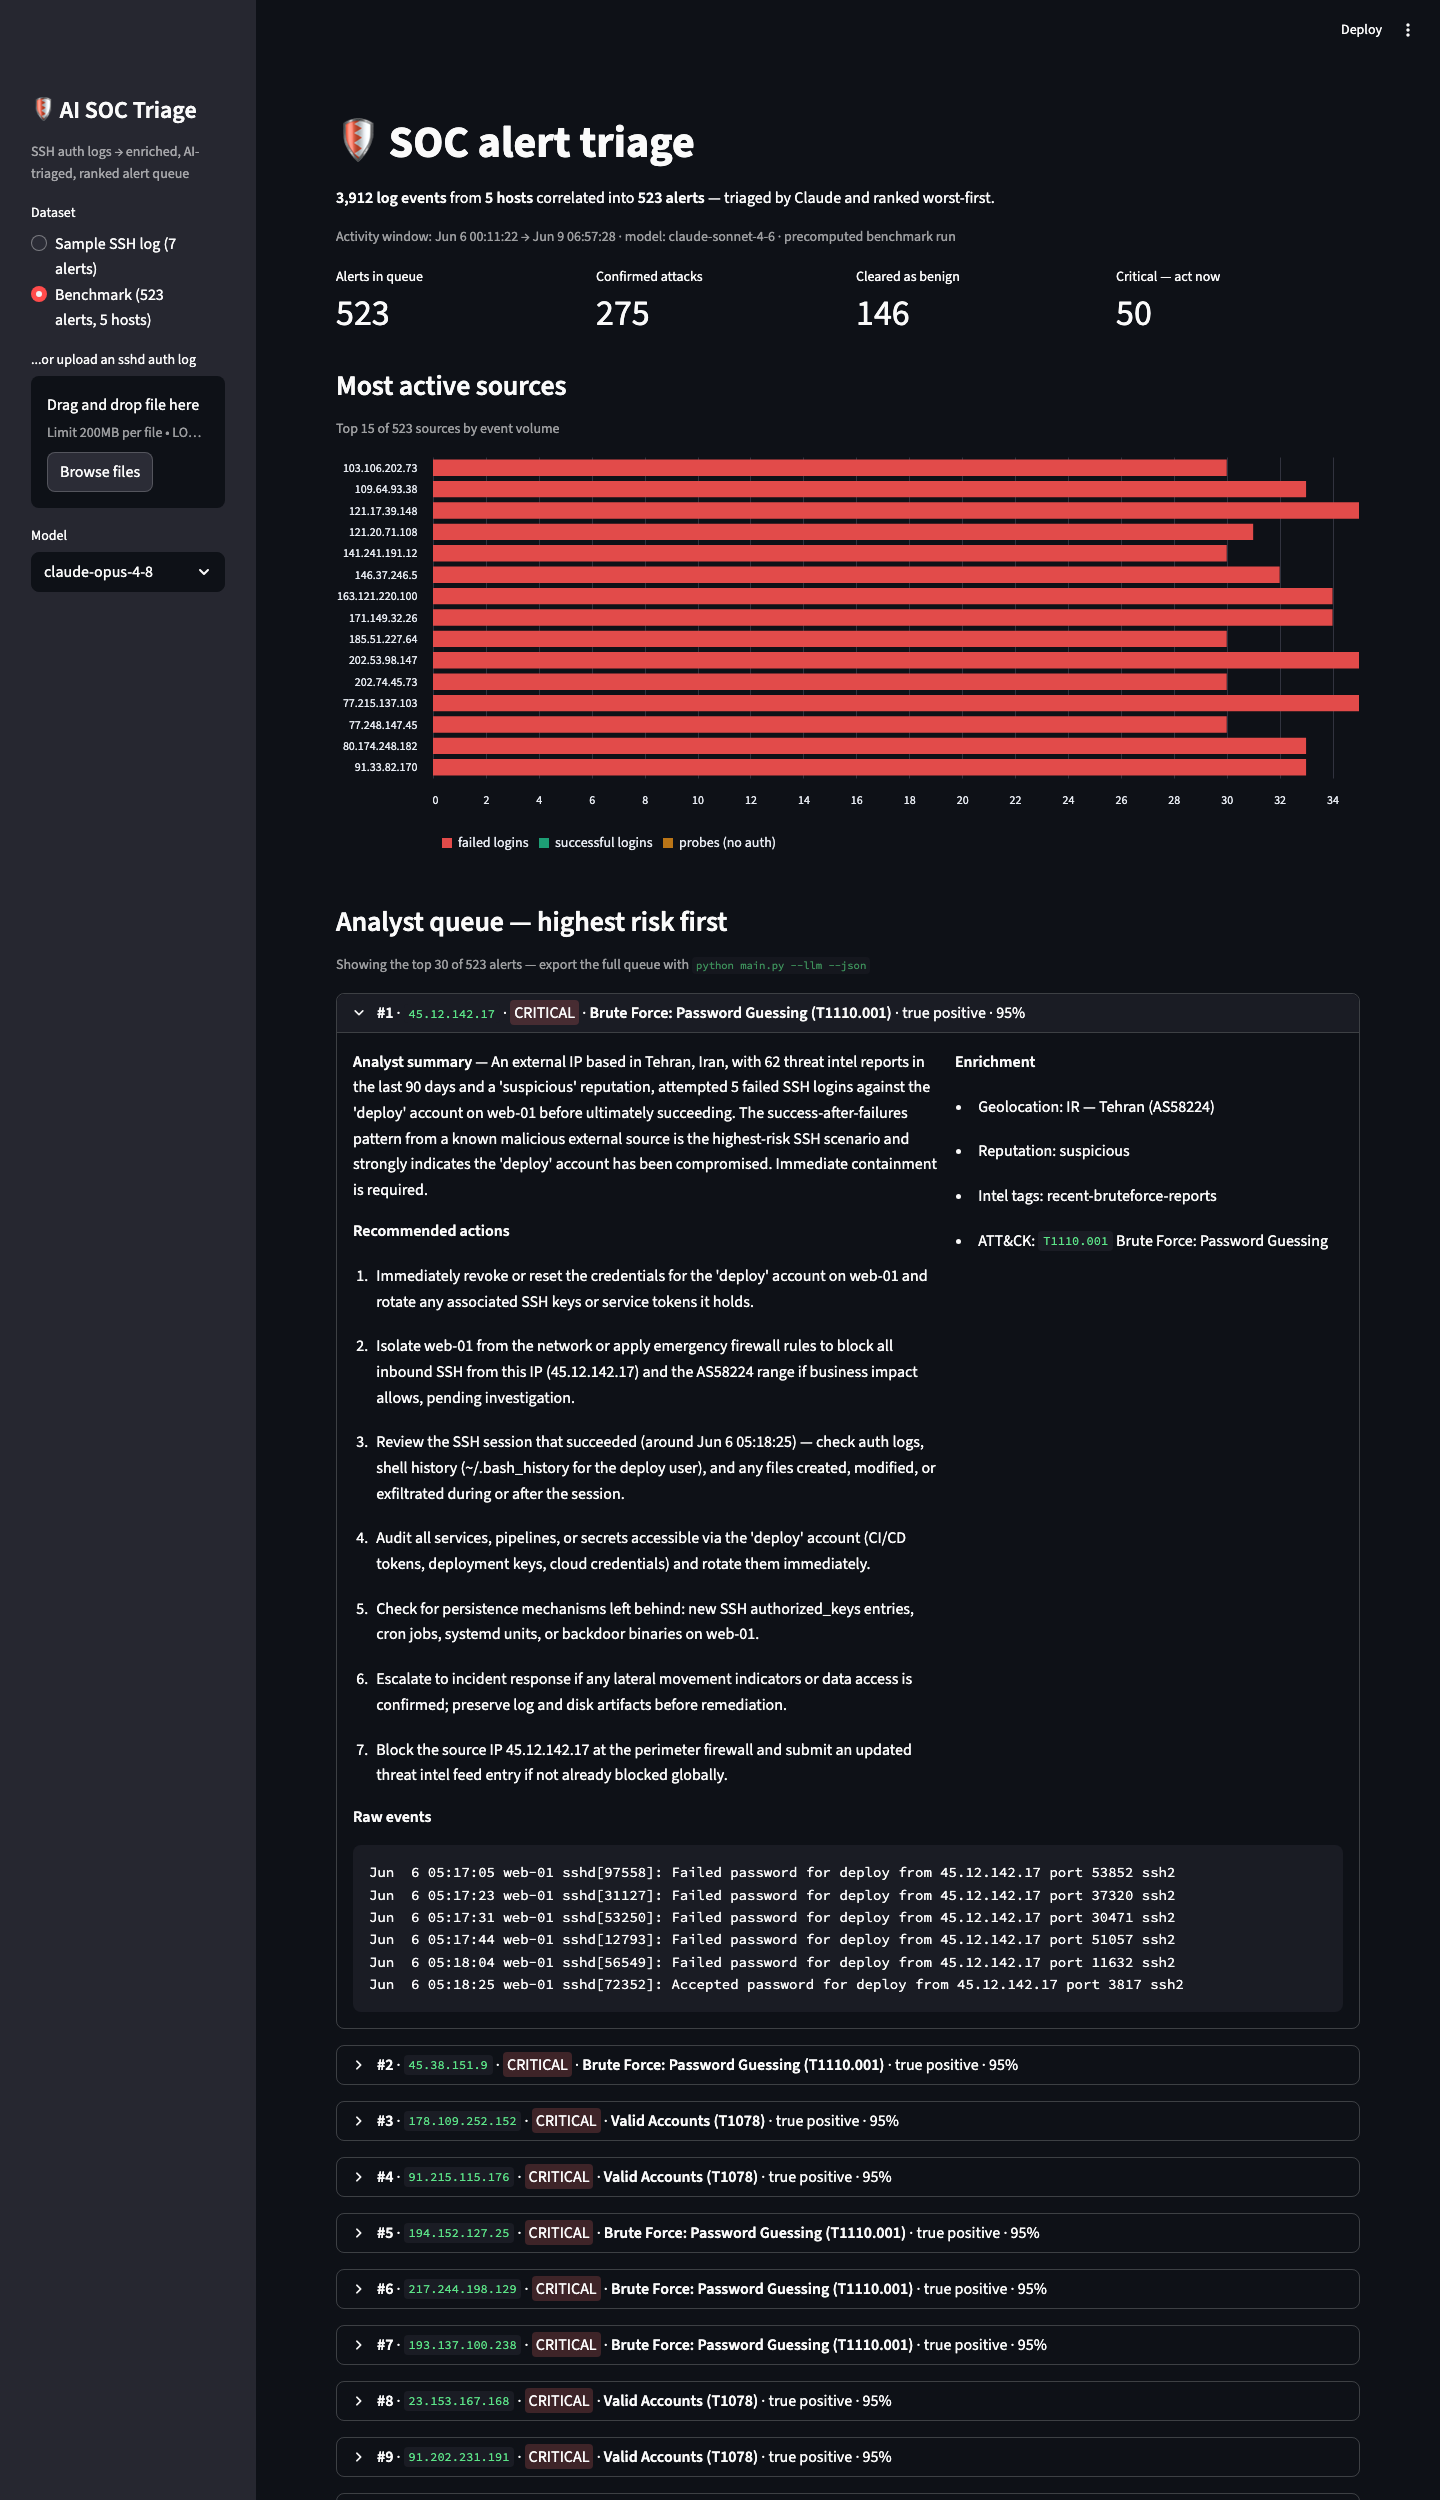
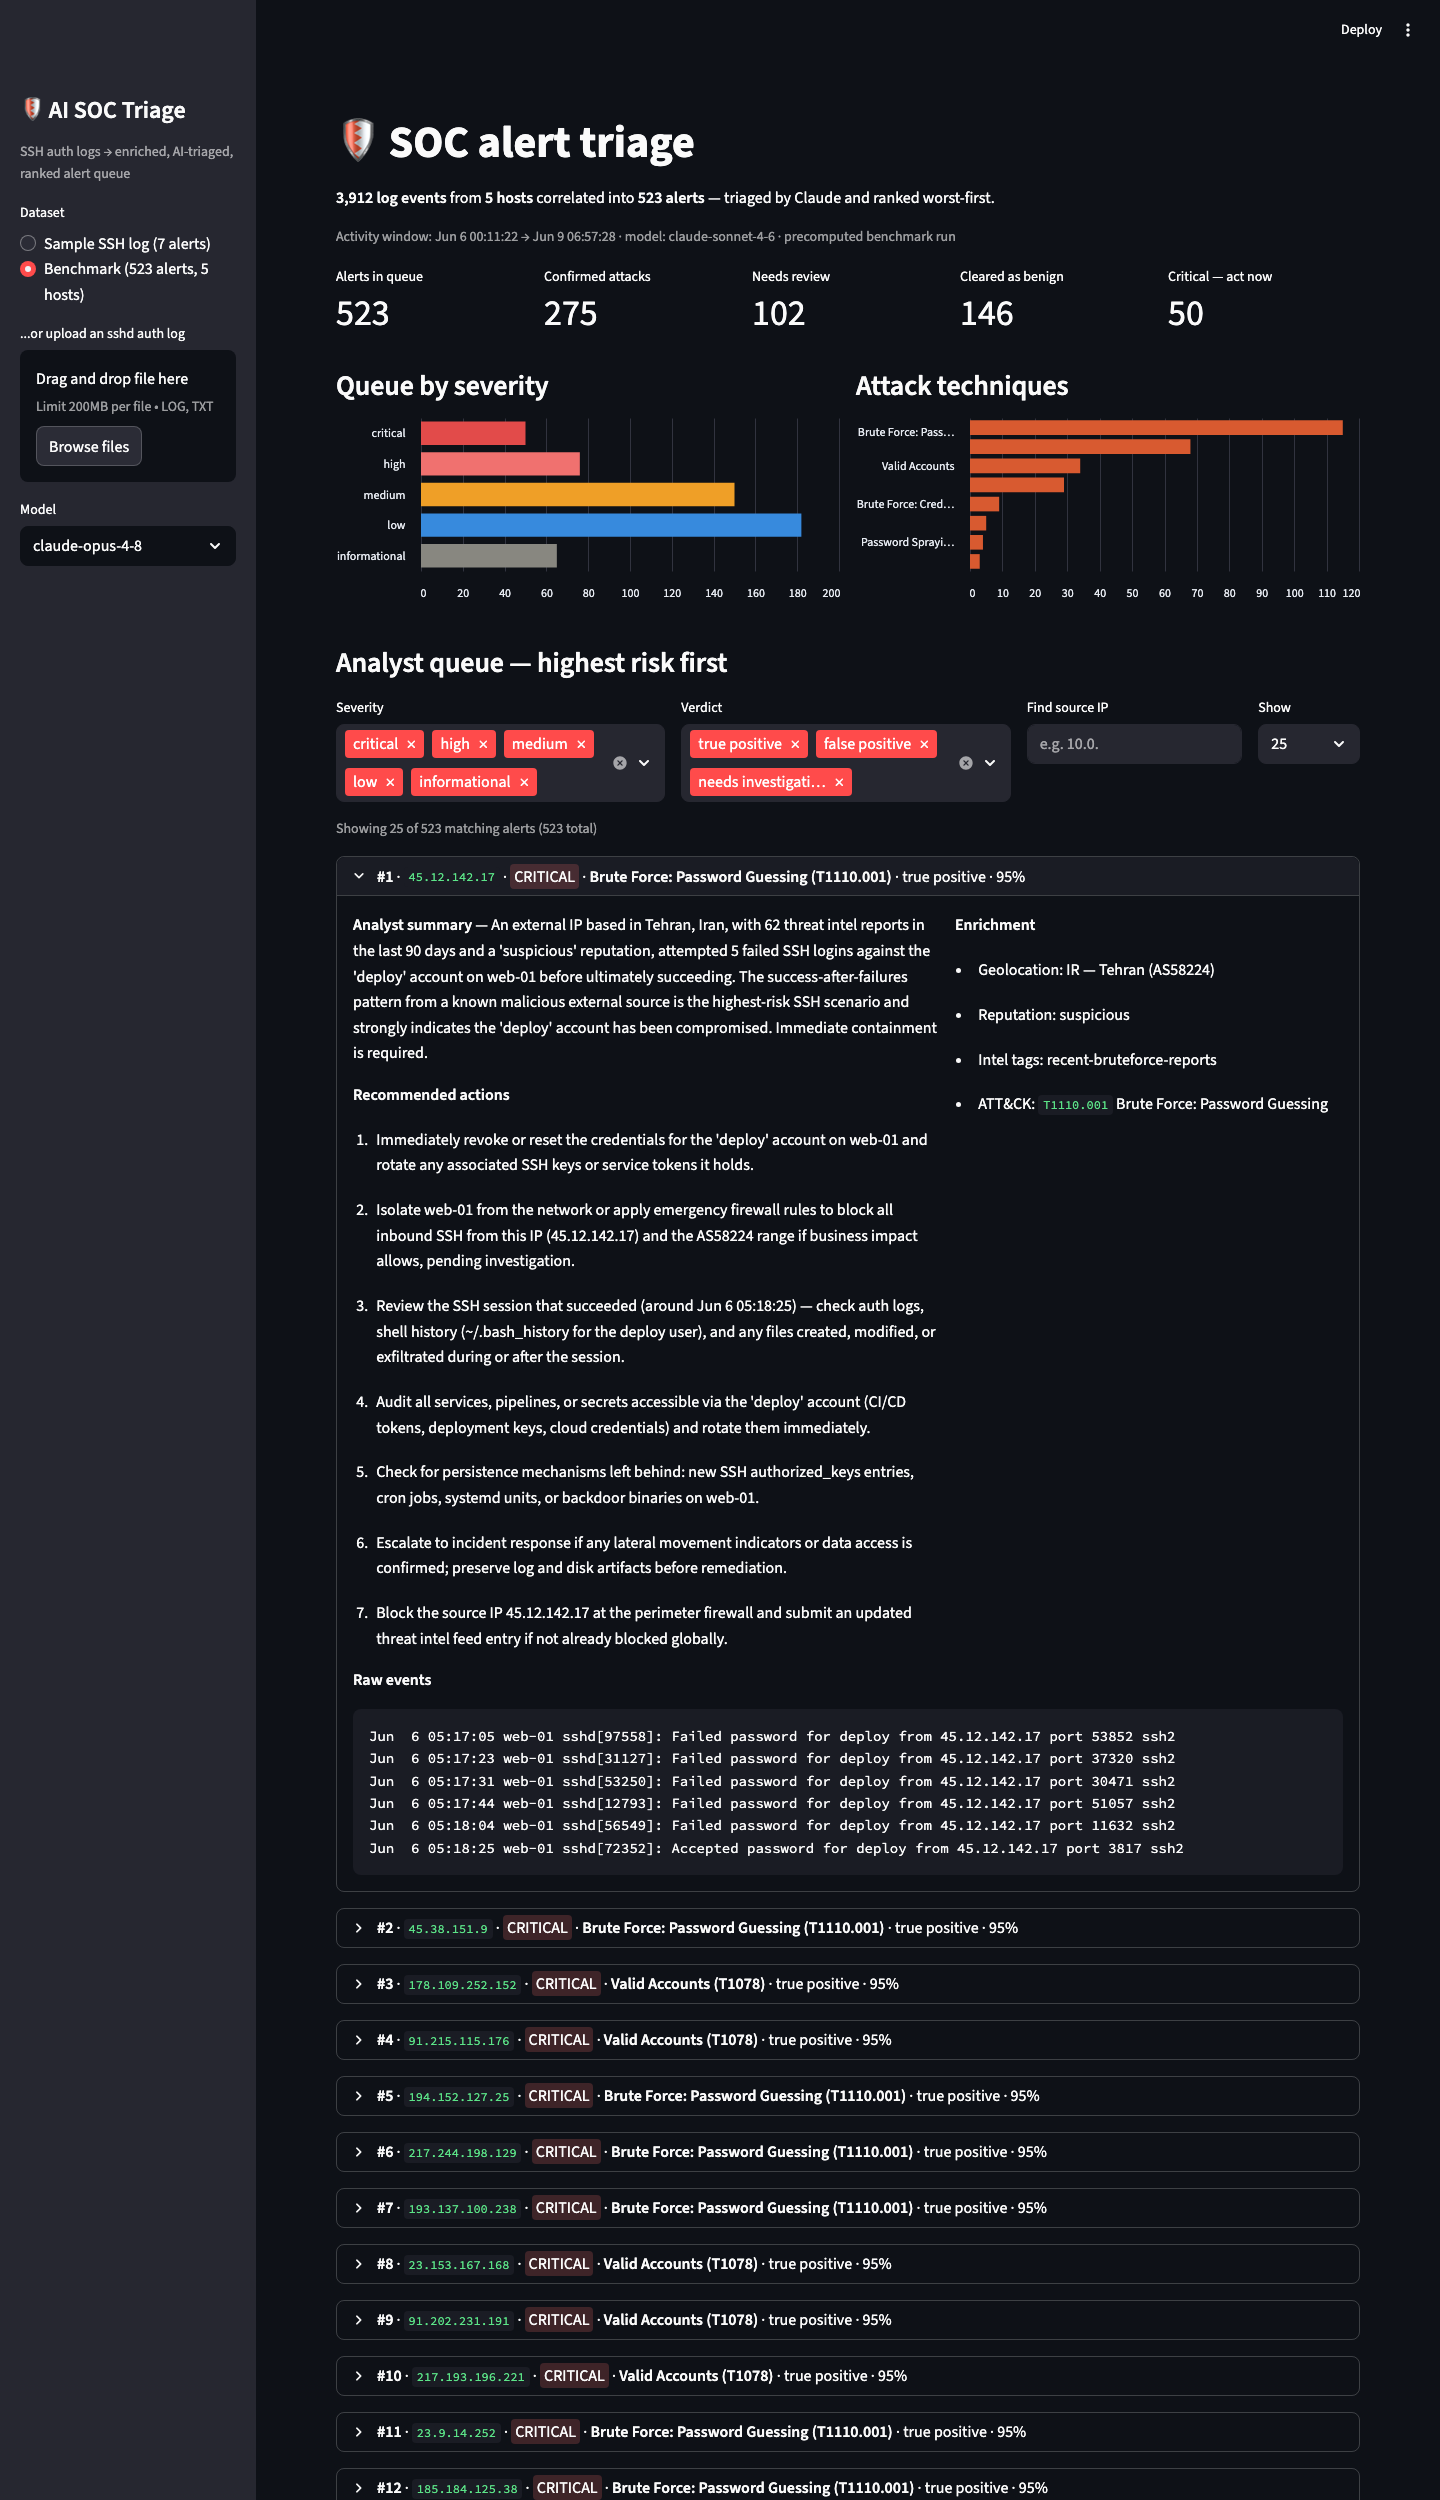
Dashboard cleanup for benchmark scale
- severity + attack-technique overview charts replace the per-source
  activity chart on large datasets (kept for small ones)
- queue filters: severity, verdict, IP search, show-count
- 'Needs review' metric; refreshed README benchmark screenshot

diff --git a/dashboard.py b/dashboard.py
@@ -8,6 +8,7 @@ import json
 import os
 import tempfile
 
+import altair as alt
 import pandas as pd
 import streamlit as st
 
@@ -156,38 +157,87 @@ st.markdown(
 if firsts and lasts:
     st.caption(f"Activity window: {min(firsts)} → {max(lasts)}  ·  model: {engine_label}")
 
-c1, c2, c3, c4 = st.columns(4)
+punted = [r for r in results if r["verdict"] == "needs_investigation"]
+c1, c2, c3, c4, c5 = st.columns(5)
 c1.metric("Alerts in queue", len(results))
 c2.metric("Confirmed attacks", len(attacks))
-c3.metric("Cleared as benign", len(benign))
-c4.metric("Critical — act now", len(critical))
+c3.metric("Needs review", len(punted))
+c4.metric("Cleared as benign", len(benign))
+c5.metric("Critical — act now", len(critical))
 
-# ---------------------------------------------------------------- activity chart
-st.subheader("Most active sources")
-chart_df = pd.DataFrame(
-    [{"source IP": a["src_ip"],
-      "failed logins": a["failed_logins"],
-      "successful logins": a["successful_logins"],
-      "probes (no auth)": a.get("connection_probes_no_auth", 0)} for a in enriched]
-)
-chart_df["total"] = chart_df.drop(columns="source IP").sum(axis=1)
-top = chart_df.nlargest(15, "total")
-if len(chart_df) > 15:
-    st.caption(f"Top 15 of {len(chart_df)} sources by event volume")
-st.bar_chart(
-    top.set_index("source IP")[["failed logins", "successful logins", "probes (no auth)"]],
-    color=["#e24b4a", "#1d9e75", "#ba7517"],
-    horizontal=True,
-    height=max(240, 28 * len(top)),
-)
+# ---------------------------------------------------------------- overview charts
+SEV_ORDER = ["critical", "high", "medium", "low", "informational"]
+SEV_COLORS = ["#e24b4a", "#f0716f", "#ef9f27", "#378add", "#888780"]
+
+left, right = st.columns(2)
+with left:
+    st.subheader("Queue by severity")
+    sev_counts = (pd.DataFrame({"severity": [r["severity"] for r in results]})
+                  .value_counts().reset_index(name="alerts"))
+    sev_chart = alt.Chart(sev_counts).mark_bar().encode(
+        x=alt.X("alerts:Q", title=None),
+        y=alt.Y("severity:N", sort=SEV_ORDER, title=None),
+        color=alt.Color("severity:N",
+                        scale=alt.Scale(domain=SEV_ORDER, range=SEV_COLORS),
+                        legend=None),
+        tooltip=["severity", "alerts"],
+    ).properties(height=200)
+    st.altair_chart(sev_chart, use_container_width=True)
+with right:
+    st.subheader("Attack techniques")
+    techniques = [r["mitre_technique_name"] for r in results
+                  if r["verdict"] == "true_positive"
+                  and r["mitre_technique_name"] not in ("N/A", "")]
+    if techniques:
+        tech_counts = (pd.DataFrame({"technique": techniques})
+                       .value_counts().reset_index(name="alerts").head(8))
+        tech_chart = alt.Chart(tech_counts).mark_bar(color="#d85a30").encode(
+            x=alt.X("alerts:Q", title=None),
+            y=alt.Y("technique:N", sort="-x", title=None),
+            tooltip=["technique", "alerts"],
+        ).properties(height=200)
+        st.altair_chart(tech_chart, use_container_width=True)
+    else:
+        st.caption("No confirmed attacks in this dataset.")
+
+# Per-source activity is only readable on small datasets; at benchmark
+# scale the top sources are uniformly noisy brute-forcers.
+if len(enriched) <= 20:
+    st.subheader("Most active sources")
+    chart_df = pd.DataFrame(
+        [{"source IP": a["src_ip"],
+          "failed logins": a["failed_logins"],
+          "successful logins": a["successful_logins"],
+          "probes (no auth)": a.get("connection_probes_no_auth", 0)} for a in enriched]
+    )
+    chart_df["total"] = chart_df.drop(columns="source IP").sum(axis=1)
+    top = chart_df.nlargest(15, "total")
+    st.bar_chart(
+        top.set_index("source IP")[["failed logins", "successful logins", "probes (no auth)"]],
+        color=["#e24b4a", "#1d9e75", "#ba7517"],
+        horizontal=True,
+        height=max(240, 28 * len(top)),
+    )
 
 # ---------------------------------------------------------------- queue
 st.subheader("Analyst queue — highest risk first")
-MAX_SHOWN = 30
-if len(results) > MAX_SHOWN:
-    st.caption(f"Showing the top {MAX_SHOWN} of {len(results)} alerts — "
-               f"export the full queue with `python main.py --llm --json`")
-for i, r in enumerate(results[:MAX_SHOWN], 1):
+f1, f2, f3, f4 = st.columns([3, 3, 2, 1])
+sev_sel = f1.multiselect("Severity", SEV_ORDER, default=SEV_ORDER)
+verdict_sel = f2.multiselect("Verdict", list(VERDICT_LABEL.values()),
+                             default=list(VERDICT_LABEL.values()))
+ip_query = f3.text_input("Find source IP", placeholder="e.g. 10.0.")
+show_n = f4.selectbox("Show", [25, 50, 100, "All"])
+
+filtered = [r for r in results
+            if r["severity"] in sev_sel
+            and VERDICT_LABEL[Verdict(r["verdict"])] in verdict_sel
+            and (not ip_query or ip_query in r["src_ip"])]
+limit = len(filtered) if show_n == "All" else int(show_n)
+if len(filtered) != len(results) or len(filtered) > limit:
+    st.caption(f"Showing {min(limit, len(filtered))} of {len(filtered)} matching "
+               f"alerts ({len(results)} total)")
+
+for i, r in enumerate(filtered[:limit], 1):
     sev = Severity(r["severity"])
     verdict = VERDICT_LABEL[Verdict(r["verdict"])]
     if r["mitre_technique_name"] not in ("N/A", ""):